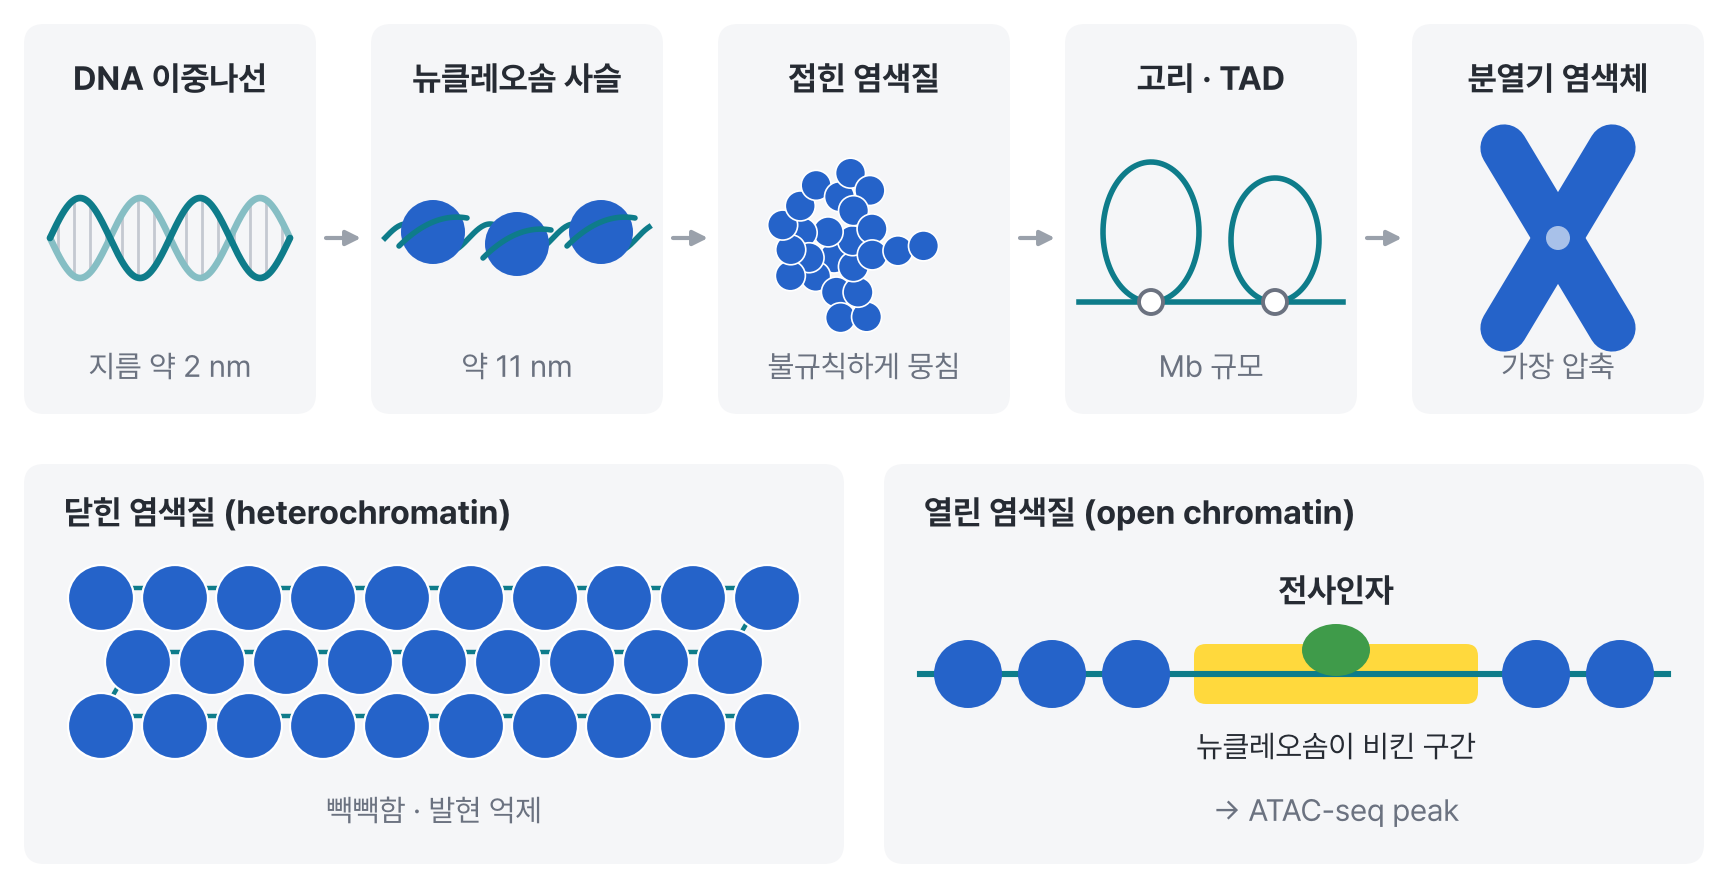
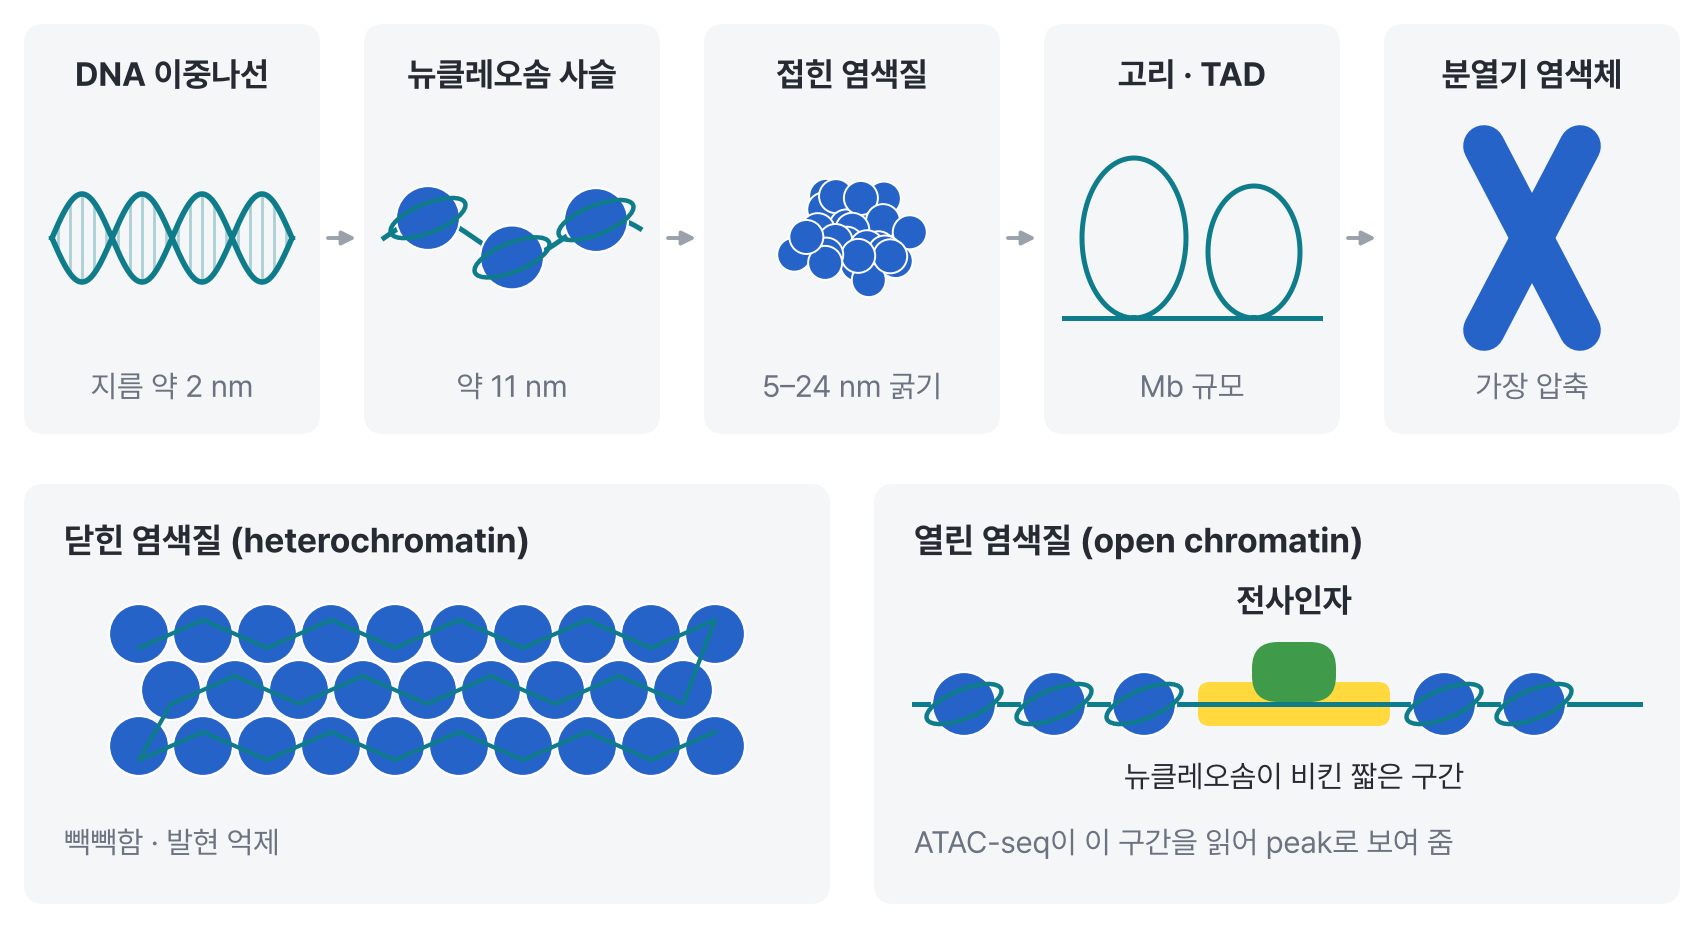
Ch 3: figures redrawn in the blue theme (PNG)
Claude-Session: https://claude.ai/code/session_013CY8u712odqLWNgSqMvRhw

diff --git a/scripts/figs/ch03_chromatin.py b/scripts/figs/ch03_chromatin.py
@@ -1,125 +1,130 @@
-# ch03 §3 DNA 압축 다섯 단계와 닫힌/열린 염색질  (redraw of figures/ch03_chromatin.svg)
+# ch03 §3 DNA 압축 다섯 단계와 닫힌·열린 염색질  (redraw of figures/ch03_chromatin.svg)
 import os, sys
 HERE = os.path.dirname(os.path.abspath(__file__))
 sys.path.insert(0, HERE)
 from medfig import *
 
 DNA = CAT[1]          # DNA strand: teal everywhere
-NUC = PRIMARY         # nucleosome / histone: blue everywhere
+HIS = PRIMARY         # nucleosome / chromatin: blue everywhere
 TF = CAT[2]           # transcription factor: green
-DNA2 = mix(DNA, 0.5)  # second strand of the helix
-RUNG = "#C4C9D1"
 
-W, H = 8.2, 4.35
+W, H = 8.4, 4.95
 fig, ax = new(W, H)
 
-# ── top row: five compaction stages ─────────────────────────────────────────
-gap = 0.26
-pw = (W - 4 * gap) / 5
-ty0, th = 2.30, 1.95
-cy = 3.24
-heads = ["DNA 이중나선", "뉴클레오솜 사슬", "접힌 염색질", "고리 · TAD", "분열기 염색체"]
-notes = ["지름 약 2 nm", "약 11 nm", "불규칙하게 뭉침", "Mb 규모", "가장 압축"]
+
+def nucleosome(x, y, r=0.16, wrap=True):
+    ax.add_patch(mp.Circle((x, y), r, fc=HIS, ec="white", lw=0.8, zorder=4))
+    if wrap:
+        ax.add_patch(mp.Ellipse((x, y), 2.5 * r, 0.9 * r, angle=22, fc="none",
+                                ec=DNA, lw=1.6, zorder=5))
+
+
+# ── top row: five compaction stages ──────────────────────────────────────────
+pw, gap, x0 = 1.48, 0.22, 0.06
+yb, yt = 2.8, 4.85
+yc = 3.78
+names = ["DNA 이중나선", "뉴클레오솜 사슬", "접힌 염색질", "고리 · TAD", "분열기 염색체"]
+sizes = ["지름 약 2 nm", "약 11 nm", "5–24 nm 굵기", "Mb 규모", "가장 압축"]
 
 for i in range(5):
-    x0 = i * (pw + gap)
-    box(ax, x0, ty0, pw, th, fc=FAINT, ec="none", r=0.1, z=1)
-    label(ax, x0 + pw / 2, ty0 + th - 0.27, heads[i], fs=12, w="bold")
-    label(ax, x0 + pw / 2, ty0 + 0.24, notes[i], fs=11, c=TEXT2)
+    px = x0 + i * (pw + gap)
+    box(ax, px, yb, pw, yt - yb, fc=FAINT, ec="none", r=0.1, z=1)
+    label(ax, px + pw / 2, yt - 0.25, names[i], fs=12, w="bold")
+    label(ax, px + pw / 2, yb + 0.24, sizes[i], fs=11, c=TEXT2)
     if i < 4:
-        arrow(ax, x0 + pw + 0.05, cy, x0 + pw + gap - 0.05, cy, ms=11, lw=1.5)
+        arrow(ax, px + pw + 0.04, yc, px + pw + gap - 0.04, yc, ms=10, lw=1.4)
 
-# 1) double helix
-cx = 0 * (pw + gap) + pw / 2
-xs = np.linspace(cx - 0.58, cx + 0.58, 300)
-L = xs[-1] - xs[0]
-ph = 2 * np.pi * 2 * (xs - xs[0]) / L
-y1 = cy + 0.2 * np.sin(ph)
-y2 = cy + 0.2 * np.sin(ph + np.pi)
-for xr in np.linspace(cx - 0.54, cx + 0.54, 15):
-    p = 2 * np.pi * 2 * (xr - xs[0]) / L
-    ax.plot([xr, xr], [cy + 0.2 * np.sin(p), cy + 0.2 * np.sin(p + np.pi)],
-            color=RUNG, lw=1.0, zorder=2)
-ax.plot(xs, y2, color=DNA2, lw=2.4, zorder=3, solid_capstyle="round")
-ax.plot(xs, y1, color=DNA, lw=2.4, zorder=4, solid_capstyle="round")
+# 1 double helix
+px = x0
+xs = np.linspace(px + 0.14, px + pw - 0.14, 300)
+ph = 2 * np.pi * (xs - xs[0]) / 0.6
+y1 = yc + 0.22 * np.sin(ph)
+y2 = yc - 0.22 * np.sin(ph)
+for xr in np.arange(xs[0] + 0.03, xs[-1], 0.06):
+    a = 0.22 * np.sin(2 * np.pi * (xr - xs[0]) / 0.6)
+    ax.plot([xr, xr], [yc - a, yc + a], color=mix(DNA, 0.35), lw=1, zorder=2)
+ax.plot(xs, y1, color=DNA, lw=2, zorder=3)
+ax.plot(xs, y2, color=DNA, lw=2, zorder=3)
 
-# 2) nucleosome chain (beads on a string)
-cx = 1 * (pw + gap) + pw / 2
-xs = np.linspace(cx - 0.64, cx + 0.64, 200)
-ax.plot(xs, cy + 0.07 * np.sin(2 * np.pi * (xs - xs[0]) / 0.42), color=DNA, lw=2.0, zorder=2)
-for dx, dy in [(-0.42, 0.03), (0.0, -0.03), (0.42, 0.03)]:
-    bx, by = cx + dx, cy + dy
-    ax.add_patch(mp.Circle((bx, by), 0.16, fc=NUC, ec="none", zorder=3))
-    t = np.linspace(-1, 1, 30)
-    ax.plot(bx + 0.17 * t, by - 0.07 + 0.14 * (t + 1) / 2 + 0.05 * (1 - t ** 2),
-            color=DNA, lw=2.0, zorder=4, solid_capstyle="round")
+# 2 nucleosome chain (beads on a string)
+px = x0 + (pw + gap)
+xs = np.linspace(px + 0.1, px + pw - 0.1, 200)
+ys = yc + 0.1 * np.sin(2 * np.pi * (xs - xs[0]) / 0.9)
+ax.plot(xs, ys, color=DNA, lw=1.8, zorder=3)
+for xn in [px + 0.32, px + 0.74, px + 1.16]:
+    nucleosome(xn, np.interp(xn, xs, ys))
 
-# 3) folded chromatin: irregular clump of a chain
-cx = 2 * (pw + gap) + pw / 2
-rng = np.random.default_rng(7)
-pts = [np.array([cx - 0.12, cy - 0.08])]
-while len(pts) < 24:
-    a = rng.uniform(0, 2 * np.pi)
-    q = pts[-1] + 0.13 * np.array([np.cos(a), np.sin(a)])
-    if np.hypot(*(q - [cx, cy])) < 0.38 and min(np.hypot(*(q - p)) for p in pts) > 0.09:
-        pts.append(q)
+# 3 folded chromatin: irregular clumped chain, centred in the panel
+px = x0 + 2 * (pw + gap)
+cx = px + pw / 2
+rng = np.random.default_rng(4)
+pts = [np.array([0.0, 0.0])]
+for _ in range(27):
+    for _try in range(40):
+        ang = rng.uniform(0, 2 * np.pi)
+        p = pts[-1] + 0.16 * np.array([np.cos(ang), np.sin(ang)])
+        if np.hypot(p[0], p[1]) < 0.5:
+            break
+    pts.append(p)
 pts = np.array(pts)
-ax.plot(pts[:, 0], pts[:, 1], color=DNA, lw=1.6, zorder=2)
+pts -= (pts.max(0) + pts.min(0)) / 2
+pts += np.array([cx, yc])
+ax.plot(pts[:, 0], pts[:, 1], color=DNA, lw=1.5, zorder=3)
 for p in pts:
-    ax.add_patch(mp.Circle(p, 0.075, fc=NUC, ec="white", lw=0.6, zorder=3))
+    ax.add_patch(mp.Circle(p, 0.085, fc=HIS, ec="white", lw=0.7, zorder=4))
 
-# 4) loops / TAD
-cx = 3 * (pw + gap) + pw / 2
-base = cy - 0.34
-ax.plot([cx - 0.64, cx + 0.64], [base, base], color=DNA, lw=2.0, zorder=2)
-t = np.linspace(0, 1, 200)
-for xb, a, hgt in [(cx - 0.3, 0.24, 0.70), (cx + 0.32, 0.22, 0.62)]:
-    ax.plot(xb + a * np.sin(2 * np.pi * t), base + hgt * (1 - np.cos(2 * np.pi * t)) / 2,
-            color=DNA, lw=2.0, zorder=2)
-    ax.add_patch(mp.Circle((xb, base), 0.06, fc="white", ec=TEXT2, lw=1.4, zorder=3))
+# 4 loops / TAD
+px = x0 + 3 * (pw + gap)
+ybase = yc - 0.4
+ax.plot([px + 0.1, px + pw - 0.1], [ybase, ybase], color=DNA, lw=1.8, zorder=3)
+s = np.linspace(0, 2 * np.pi, 200)
+for xm, a, b in [(px + 0.45, 0.26, 0.4), (px + 1.05, 0.23, 0.33)]:
+    ax.plot(xm - a * np.sin(s), ybase + b * (1 - np.cos(s)), color=DNA, lw=1.8, zorder=3)
 
-# 5) mitotic chromosome (smaller, clear of the note)
-cx = 4 * (pw + gap) + pw / 2
+# 5 mitotic chromosome
+px = x0 + 4 * (pw + gap)
+cx = px + pw / 2
 for sgn in (1, -1):
-    ax.plot([cx - 0.22 * sgn, cx + 0.22 * sgn], [cy - 0.34, cy + 0.38], color=NUC, lw=15,
+    ax.plot([cx - 0.24 * sgn, cx + 0.24 * sgn], [yc - 0.46, yc + 0.46], color=HIS, lw=15,
             solid_capstyle="round", zorder=3)
-ax.add_patch(mp.Circle((cx, cy + 0.02), 0.055, fc=STEPS[1], ec="none", zorder=4))
 
 # ── bottom row: closed vs open chromatin ────────────────────────────────────
-by0, bh = 0.05, 2.0
-bw = (W - 0.2) / 2
-# closed
-box(ax, 0, by0, bw, bh, fc=FAINT, ec="none", r=0.1, z=1)
-label(ax, 0.2, by0 + bh - 0.24, "닫힌 염색질 (heterochromatin)", fs=12, w="bold", ha="left")
-sp, r = 0.36, 0.16
-rows = [1.38, 1.07, 0.76]
-centres = []
-for k, yy in enumerate(rows):
-    n = 10 if k % 2 == 0 else 9
-    x_first = bw / 2 - sp * 4.5 + (sp / 2 if k % 2 else 0)
-    row = [(x_first + j * sp, yy) for j in range(n)]
-    centres.append(row if k % 2 == 0 else row[::-1])
-path = np.array([p for row in centres for p in row])
-ax.plot(path[:, 0], path[:, 1] + 0.05, color=DNA, lw=1.6, zorder=2)
-for row in centres:
-    for p in row:
-        ax.add_patch(mp.Circle(p, r, fc=NUC, ec="white", lw=0.8, zorder=3))
-label(ax, bw / 2, 0.32, "빽빽함 · 발현 억제", fs=11, c=TEXT2)
+bw = (5 * pw + 4 * gap - gap) / 2
+by0, by1 = 0.45, 2.55
+ynote = 0.76
 
-# open
-ox = W - bw
-box(ax, ox, by0, bw, bh, fc=FAINT, ec="none", r=0.1, z=1)
-label(ax, ox + 0.2, by0 + bh - 0.24, "열린 염색질 (open chromatin)", fs=12, w="bold", ha="left")
-dy = 1.0
-ax.plot([ox + 0.18, W - 0.18], [dy, dy], color=DNA, lw=2.2, zorder=3)
-for bx in [ox + 0.42, ox + 0.84, ox + 1.26, W - 0.84, W - 0.42]:
-    ax.add_patch(mp.Circle((bx, dy), 0.17, fc=NUC, ec="none", zorder=4))
-g0, g1 = ox + 1.55, W - 1.13
-box(ax, g0, dy - 0.15, g1 - g0, 0.3, fc=ACCENT, ec="none", r=0.06, z=2)
-tfx = (g0 + g1) / 2
-ax.add_patch(mp.Ellipse((tfx, dy + 0.12), 0.34, 0.26, fc=TF, ec="none", zorder=4))
-label(ax, tfx, dy + 0.42, "전사인자", fs=12, w="bold")
-label(ax, tfx, dy - 0.36, "뉴클레오솜이 비킨 구간", fs=11)
-label(ax, tfx, 0.32, "→ ATAC-seq peak", fs=11, c=TEXT2)
+# closed (heterochromatin)
+px = x0
+box(ax, px, by0, bw, by1 - by0, fc=FAINT, ec="none", r=0.1, z=1)
+label(ax, px + 0.2, by1 - 0.28, "닫힌 염색질 (heterochromatin)", fs=12.5, w="bold", ha="left")
+sp, r = 0.32, 0.15
+rows = [(1.80, 10, 0.0), (1.52, 9, sp / 2), (1.24, 10, 0.0)]
+path = []
+for k, (yy, n, off) in enumerate(rows):
+    xl = px + bw / 2 - (10 - 1) * sp / 2 + off
+    xr = [xl + j * sp for j in range(n)]
+    if k % 2:
+        xr = xr[::-1]
+    for j, xx in enumerate(xr):
+        path.append((xx, yy + (0.07 if j % 2 else -0.07)))
+        ax.add_patch(mp.Circle((xx, yy), r, fc=HIS, ec="white", lw=0.8, zorder=4))
+path = np.array(path)
+ax.plot(path[:, 0], path[:, 1], color=DNA, lw=1.5, zorder=5)
+label(ax, px + 0.2, ynote, "빽빽함 · 발현 억제", fs=11, c=TEXT2, ha="left")
+
+# open chromatin
+px = x0 + bw + gap
+box(ax, px, by0, bw, by1 - by0, fc=FAINT, ec="none", r=0.1, z=1)
+label(ax, px + 0.2, by1 - 0.28, "열린 염색질 (open chromatin)", fs=12.5, w="bold", ha="left")
+yl = 1.45
+ax.plot([px + 0.2, px + bw - 0.2], [yl, yl], color=DNA, lw=1.8, zorder=3)
+xg = px + 2.1
+box(ax, xg - 0.48, yl - 0.11, 0.96, 0.22, fc=ACCENT, ec="none", r=0.06, z=2)
+for xn in [px + 0.45, px + 0.9, px + 1.35, px + 2.85, px + 3.3]:
+    nucleosome(xn, yl)
+box(ax, xg - 0.21, yl + 0.01, 0.42, 0.3, fc=TF, ec="none", r=0.13, z=6)
+label(ax, xg, yl + 0.52, "전사인자", fs=12, w="bold")
+label(ax, xg, yl - 0.36, "뉴클레오솜이 비킨 짧은 구간", fs=11)
+label(ax, px + 0.2, ynote, "ATAC-seq이 이 구간을 읽어 peak로 보여 줌", fs=11, c=TEXT2, ha="left")
 
 save(fig, os.path.join(HERE, "../../figures/ch03_chromatin.png"))
